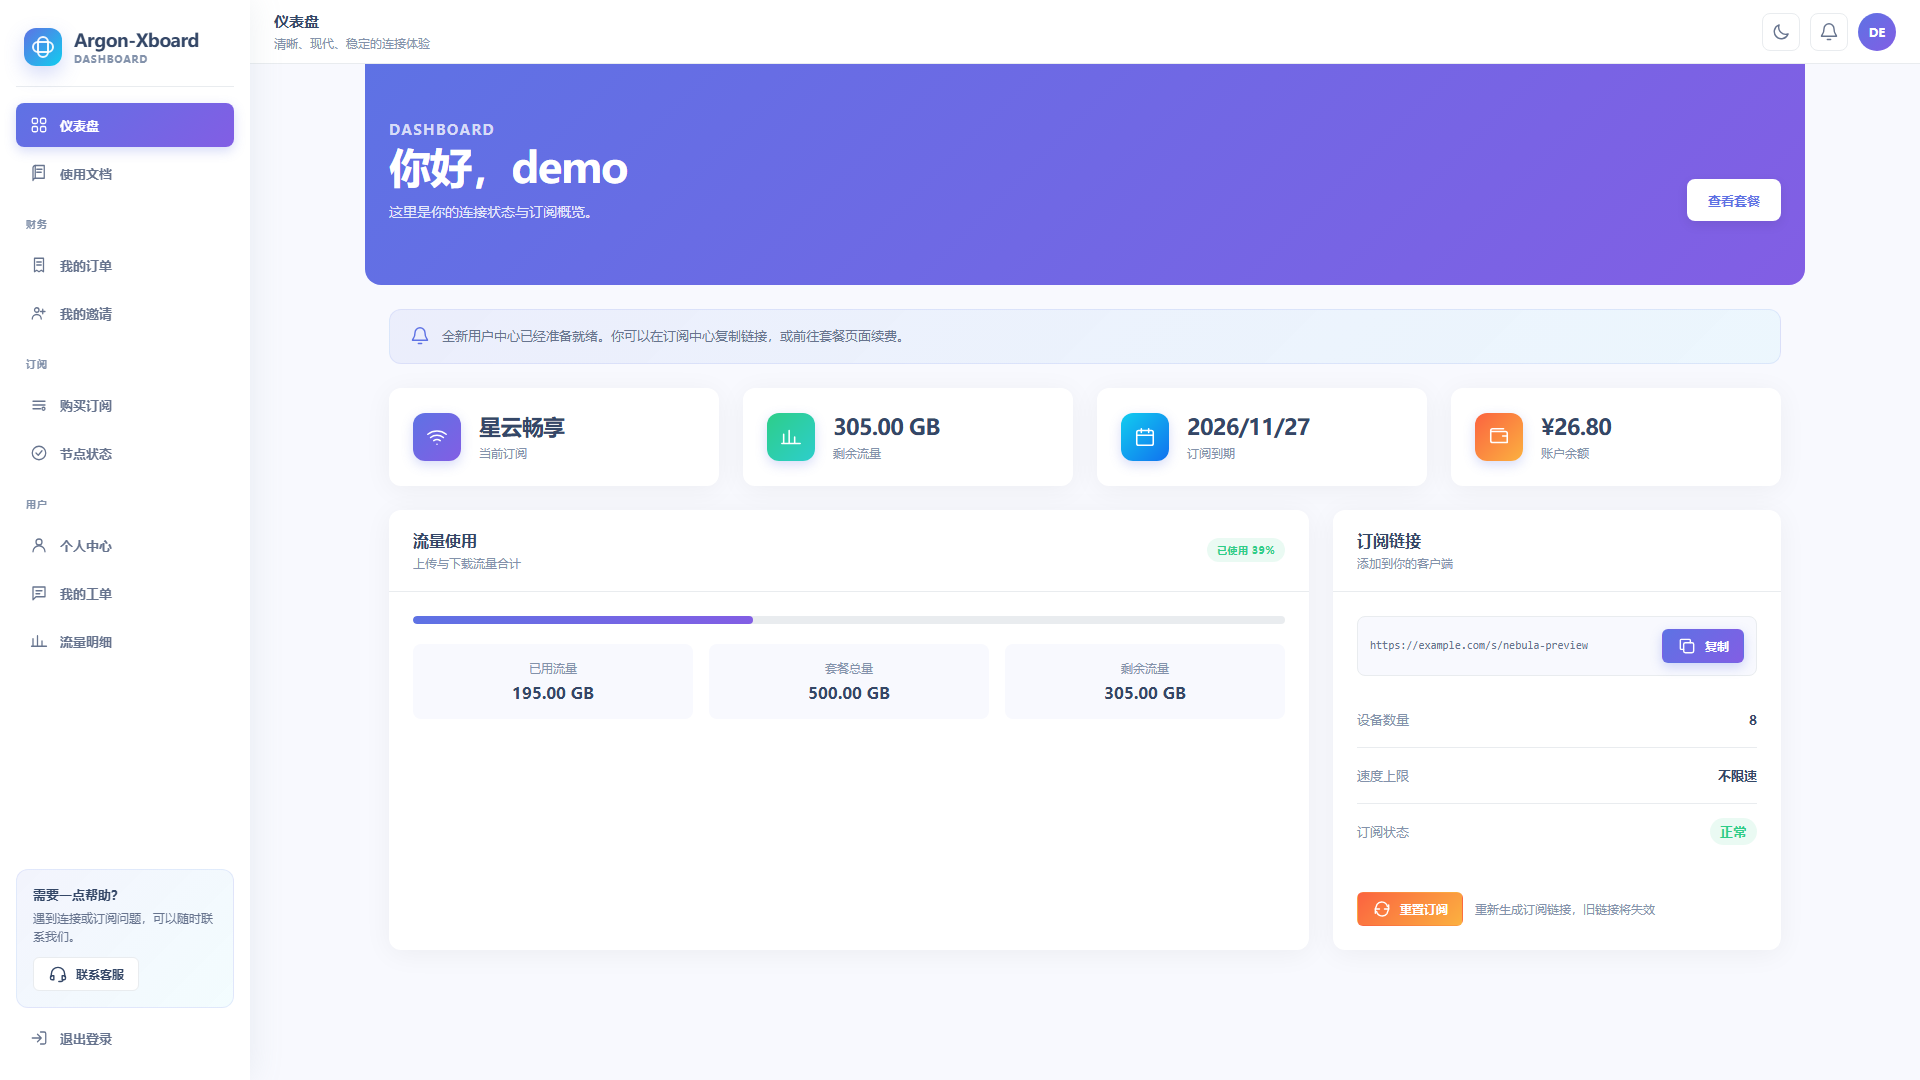
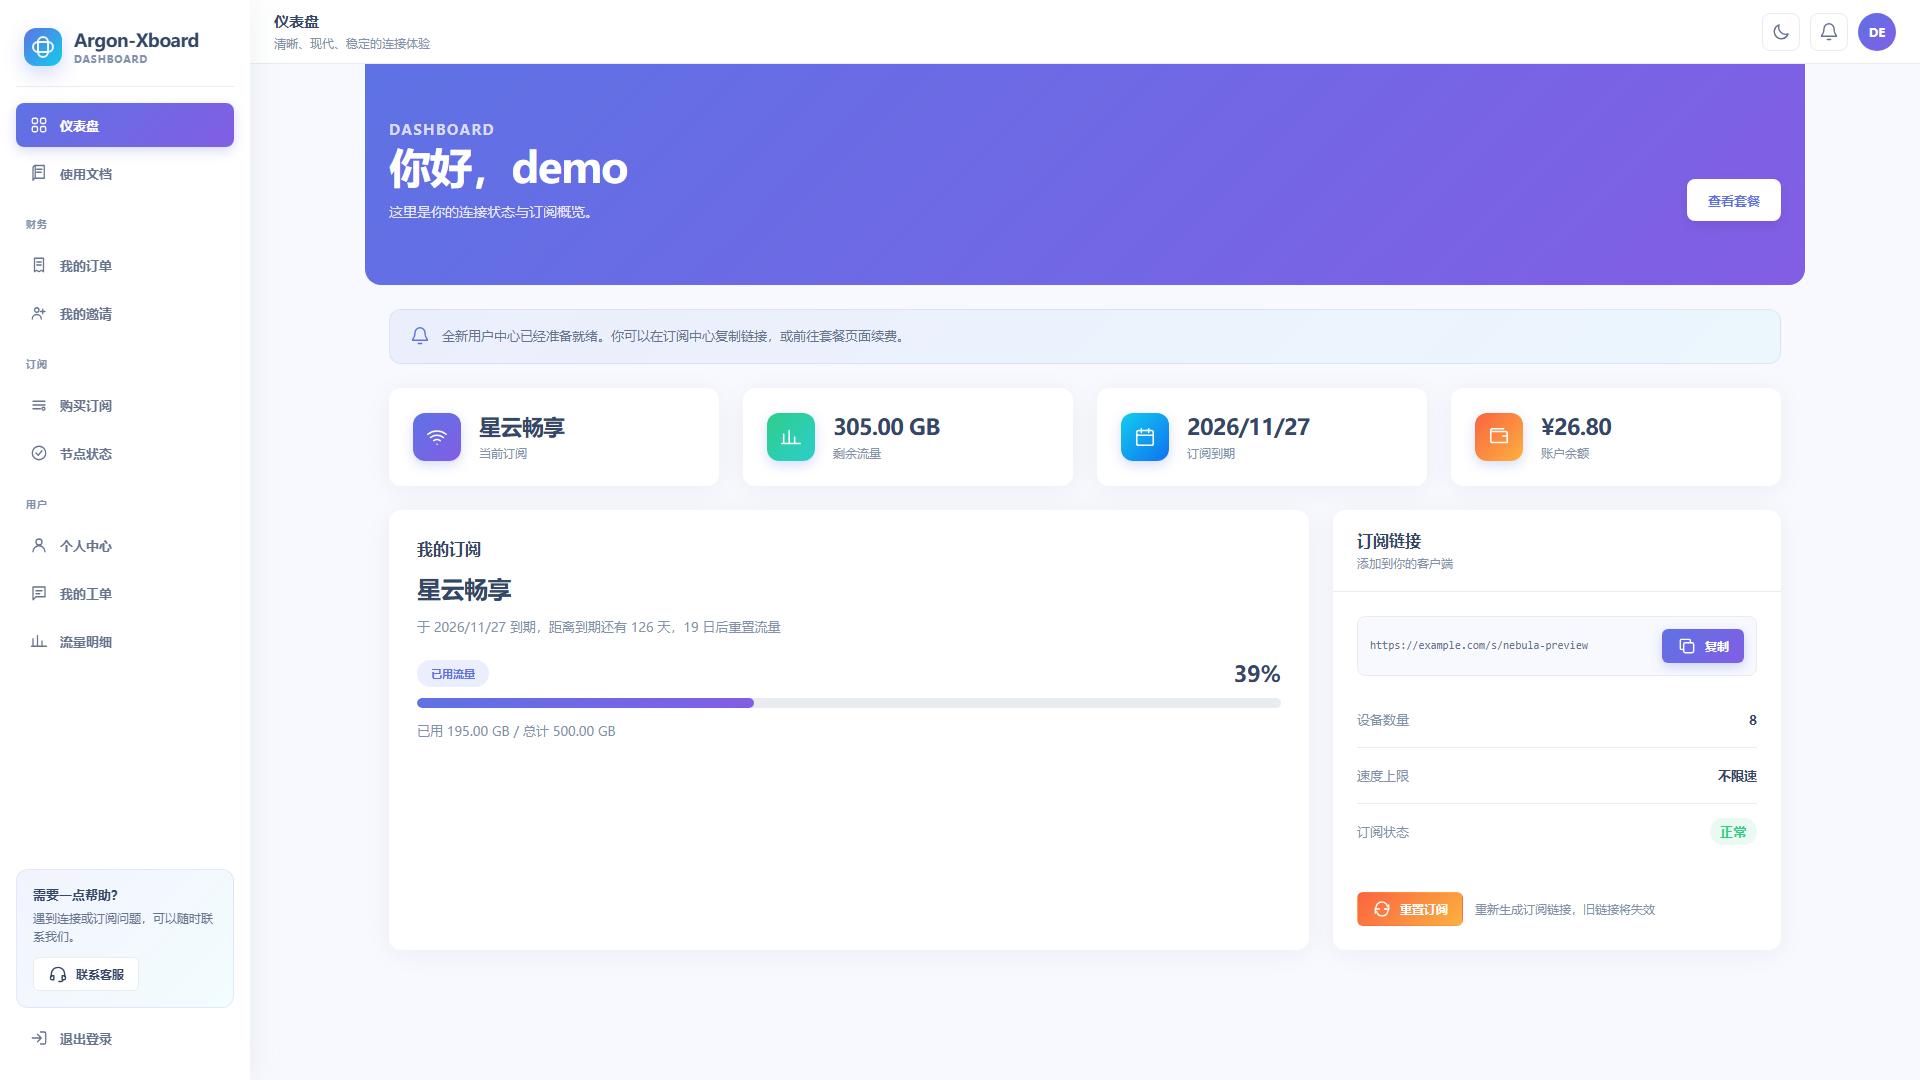
feat(dashboard): add My Subscription card
- Show plan name, expiry date and days remaining.
- Show days until next traffic reset.
- Add traffic progress bar with 'used traffic' tag and used/total bytes.
- Bump version to 1.1.1 and update screenshot.

diff --git a/assets/theme.js b/assets/theme.js
@@ -201,6 +201,22 @@
     const stamp = Number(value) < 1e12 ? Number(value) * 1000 : Number(value);
     return new Intl.DateTimeFormat('zh-CN', { year: 'numeric', month: '2-digit', day: '2-digit' }).format(new Date(stamp));
   }
+  function daysUntil(value) {
+    if (!value) return null;
+    const stamp = Number(value) < 1e12 ? Number(value) * 1000 : Number(value);
+    const diff = Math.ceil((stamp - Date.now()) / 86400000);
+    return diff > 0 ? diff : 0;
+  }
+  function daysUntilReset(resetDay) {
+    if (!resetDay) return null;
+    const now = new Date();
+    const currentDay = now.getDate();
+    const currentMonth = now.getMonth();
+    const currentYear = now.getFullYear();
+    let target = new Date(currentYear, currentMonth, Number(resetDay));
+    if (currentDay > Number(resetDay)) target = new Date(currentYear, currentMonth + 1, Number(resetDay));
+    return Math.ceil((target - now) / 86400000);
+  }
   function toast(message, type = 'success', title = type === 'error' ? '操作失败' : '操作成功') {
     const node = document.createElement('div');
     node.className = `toast ${type}`;
@@ -350,6 +366,11 @@
       const percent = total ? Math.min(100, Math.round(used / total * 100)) : 0;
       const remaining = Math.max(0, total - used);
       const planName = subscribe.plan?.name || '暂无订阅';
+      const expireDays = daysUntil(subscribe.expired_at);
+      const resetDays = daysUntilReset(subscribe.reset_day);
+      const expireMeta = subscribe.expired_at
+        ? `于 ${date(subscribe.expired_at)} 到期，距离到期还有 ${expireDays} 天${resetDays !== null ? `，${resetDays} 日后重置流量` : ''}`
+        : '暂无有效订阅';
       const firstName = (user.email || '用户').split('@')[0];
       const announcement = config.announcement || state.notices[0]?.content || '';
       const content = `<div class="dashboard-header">
@@ -370,18 +391,17 @@
         ${statCard('wallet', money(user.balance), '账户余额', 'bg-gradient-warning')}
       </div>
       <div class="grid grid-3" style="margin-top:24px">
-        <section class="card span-2">
-          <div class="card-header">
-            <div><h2>流量使用</h2><p>上传与下载流量合计</p></div>
-            <span class="status ${percent > 85 ? 'danger' : 'success'}">已使用 ${percent}%</span>
-          </div>
+        <section class="card span-2 subscription-card">
           <div class="card-body">
-            <div class="progress"><span style="width:${percent}%"></span></div>
-            <div class="usage-metrics">
-              <div class="metric"><span>已用流量</span><b>${bytes(used)}</b></div>
-              <div class="metric"><span>套餐总量</span><b>${bytes(total)}</b></div>
-              <div class="metric"><span>剩余流量</span><b>${bytes(remaining)}</b></div>
+            <h2 class="subscription-title">我的订阅</h2>
+            <h3 class="subscription-plan-name">${e(planName)}</h3>
+            <p class="subscription-meta">${e(expireMeta)}</p>
+            <div class="subscription-progress-row">
+              <span class="subscription-tag">已用流量</span>
+              <span class="subscription-percent">${percent}%</span>
             </div>
+            <div class="progress subscription-progress"><span style="width:${percent}%"></span></div>
+            <p class="subscription-usage">已用 ${bytes(used)} / 总计 ${bytes(total)}</p>
           </div>
         </section>
         <section class="card subscribe-card">

diff --git a/assets/theme.css b/assets/theme.css
@@ -243,6 +243,17 @@ img { max-width: 100%; }
 .subscribe-box { display: flex; align-items: center; gap: 10px; padding: 12px; border: 1px solid var(--line); border-radius: var(--radius-sm); background: var(--surface-soft); }
 .subscribe-url { min-width: 0; flex: 1; overflow: hidden; color: var(--body); font-family: ui-monospace, SFMono-Regular, Consolas, monospace; font-size: 11px; text-overflow: ellipsis; white-space: nowrap; }
 
+.subscription-card .card-body { display: grid; gap: 14px; padding: 28px; }
+.subscription-title { margin: 0; font-size: 16px; color: var(--ink); font-weight: 700; }
+.subscription-plan-name { margin: 0; font-size: 24px; color: var(--ink); font-weight: 700; letter-spacing: -.02em; }
+.subscription-meta { margin: 0; color: var(--muted); font-size: 13px; }
+.subscription-progress-row { display: flex; align-items: center; justify-content: space-between; gap: 12px; margin-top: 10px; }
+.subscription-tag { display: inline-flex; align-items: center; padding: 6px 14px; border-radius: 999px; color: var(--primary); background: rgba(var(--primary-rgb), .12); font-size: 11px; font-weight: 700; }
+.subscription-percent { font-size: 22px; color: var(--ink); font-weight: 600; }
+.subscription-progress { height: 10px; margin-top: -4px; }
+.subscription-progress span { background: linear-gradient(90deg, var(--primary), #825ee4); }
+.subscription-usage { margin: 0; color: var(--muted); font-size: 13px; }
+
 .announcement { display: flex; align-items: flex-start; gap: 12px; padding: 16px 20px; margin-bottom: 24px; border-radius: var(--radius); background: linear-gradient(135deg, rgba(var(--primary-rgb), .08), rgba(17, 205, 239, .05)); border: 1px solid rgba(var(--primary-rgb), .12); }
 .announcement .icon { color: var(--primary); flex: 0 0 auto; }
 .announcement p { margin: 0; color: var(--body); font-size: 13px; line-height: 1.6; }

diff --git a/dashboard.blade.php b/dashboard.blade.php
@@ -9,7 +9,7 @@
   @if (file_exists(public_path("/theme/{$theme}/favicon.ico")))
     <link rel="icon" href="/theme/{{ $theme }}/favicon.ico">
   @endif
-  <link rel="stylesheet" href="/theme/{{ $theme }}/assets/theme.css?v=1.1.0">
+  <link rel="stylesheet" href="/theme/{{ $theme }}/assets/theme.css?v=1.1.1">
 </head>
 <body>
   <div id="app" aria-live="polite">
@@ -35,7 +35,7 @@
       'footerText' => $theme_config['footer_text'] ?? 'Powered by Argon-Xboard · Xboard'
     ], JSON_UNESCAPED_UNICODE | JSON_UNESCAPED_SLASHES | JSON_HEX_TAG | JSON_HEX_AMP | JSON_HEX_APOS | JSON_HEX_QUOT) !!};
   </script>
-  <script defer src="/theme/{{ $theme }}/assets/theme.js?v=1.1.0"></script>
+  <script defer src="/theme/{{ $theme }}/assets/theme.js?v=1.1.1"></script>
   {!! $theme_config['custom_html'] ?? '' !!}
 </body>
 </html>

diff --git a/README.md b/README.md
@@ -13,7 +13,7 @@
 ## 特性
 
 - 登录、注册、邮箱验证码及验证适配
-- 用户仪表盘、流量与订阅状态
+- 用户仪表盘、「我的订阅」卡片（套餐 / 到期倒计时 / 重置倒计时 / 流量进度）
 - 使用文档、节点状态和每日流量明细
 - 订阅链接一键复制与一键重置（调用 `/api/v1/user/resetSecurity`）
 - 套餐选择、创建订单与基础支付跳转
@@ -39,7 +39,7 @@ Argon-Xboard/
 
 ## 安装到 Xboard
 
-1. 下载安装包 [`Argon-Xboard-1.1.0.zip`](Argon-Xboard-1.1.0.zip)。
+1. 下载安装包 [`Argon-Xboard-1.1.1.zip`](Argon-Xboard-1.1.1.zip)。
 2. 进入 Xboard 管理后台的「主题」页面，上传该 ZIP。
 3. 切换到 **Argon-Xboard**，按需填写品牌名称、主题色与客服地址。
 
